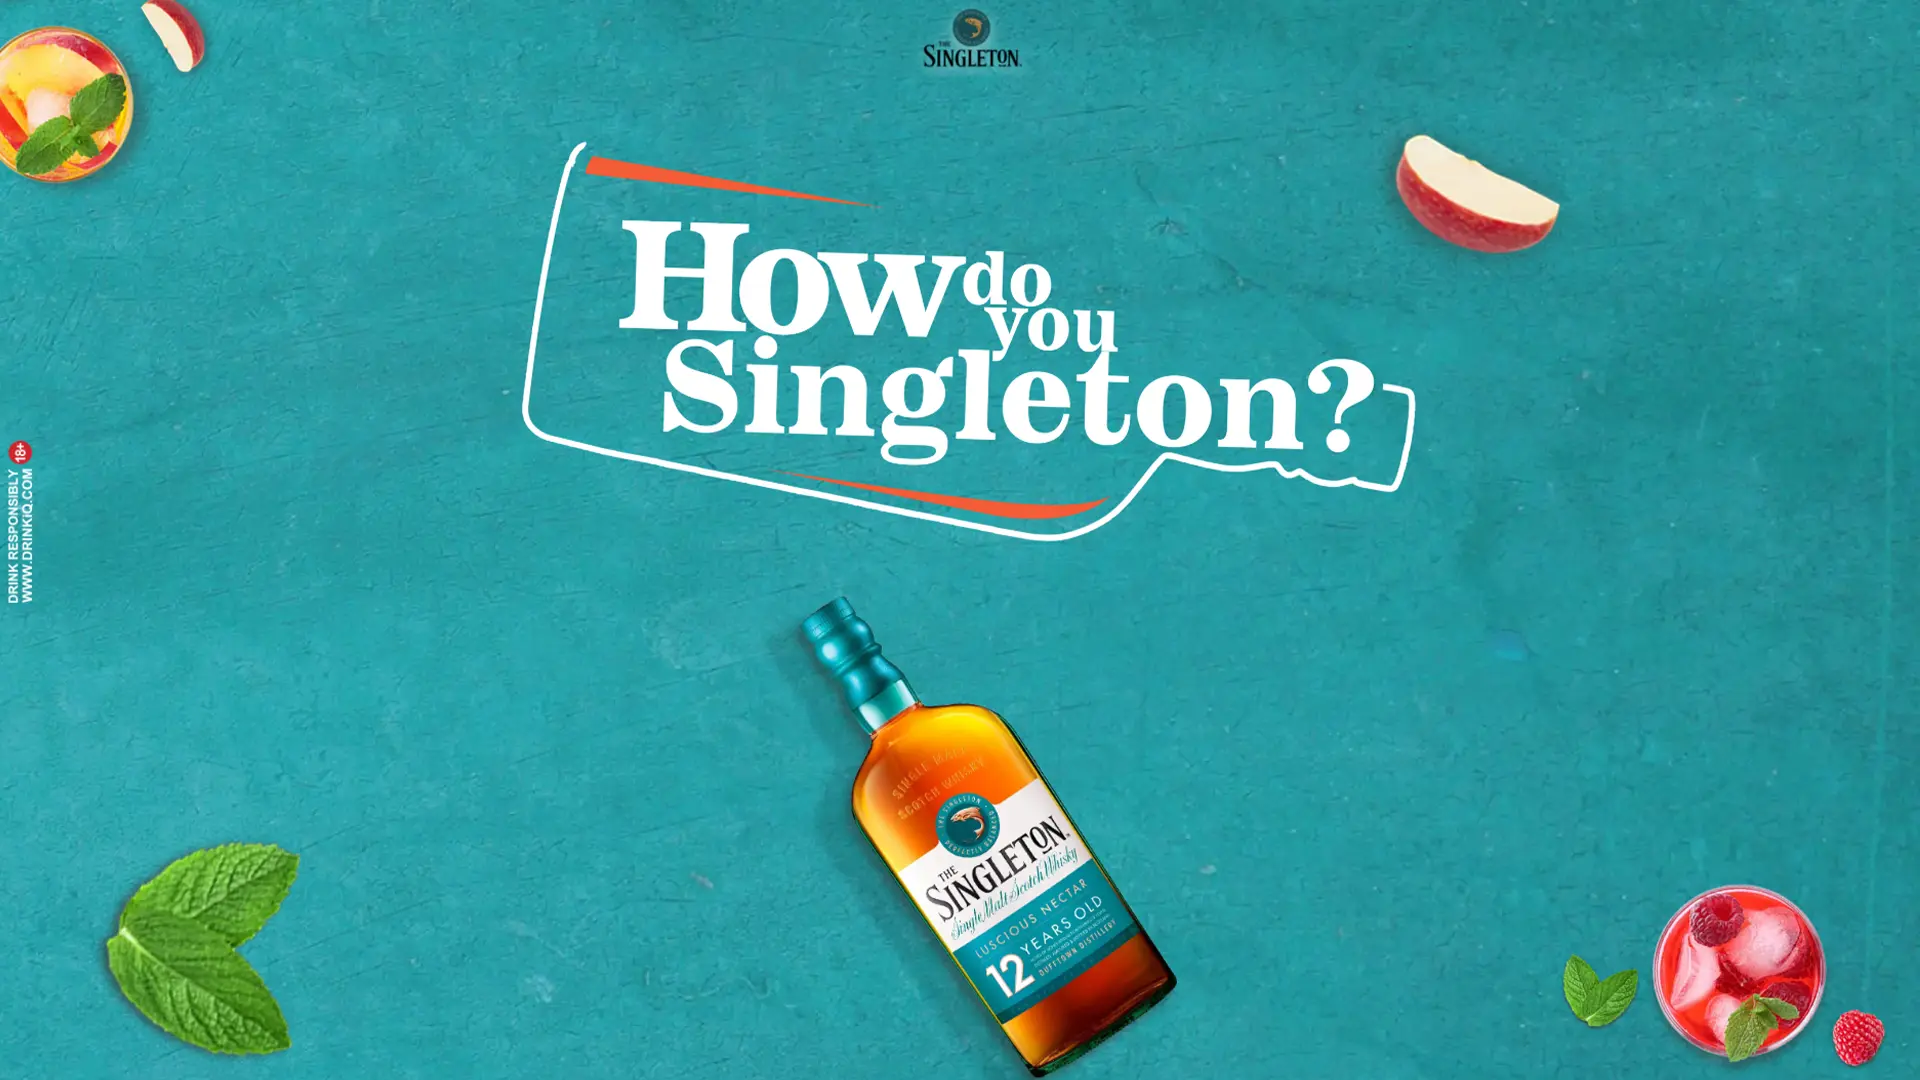
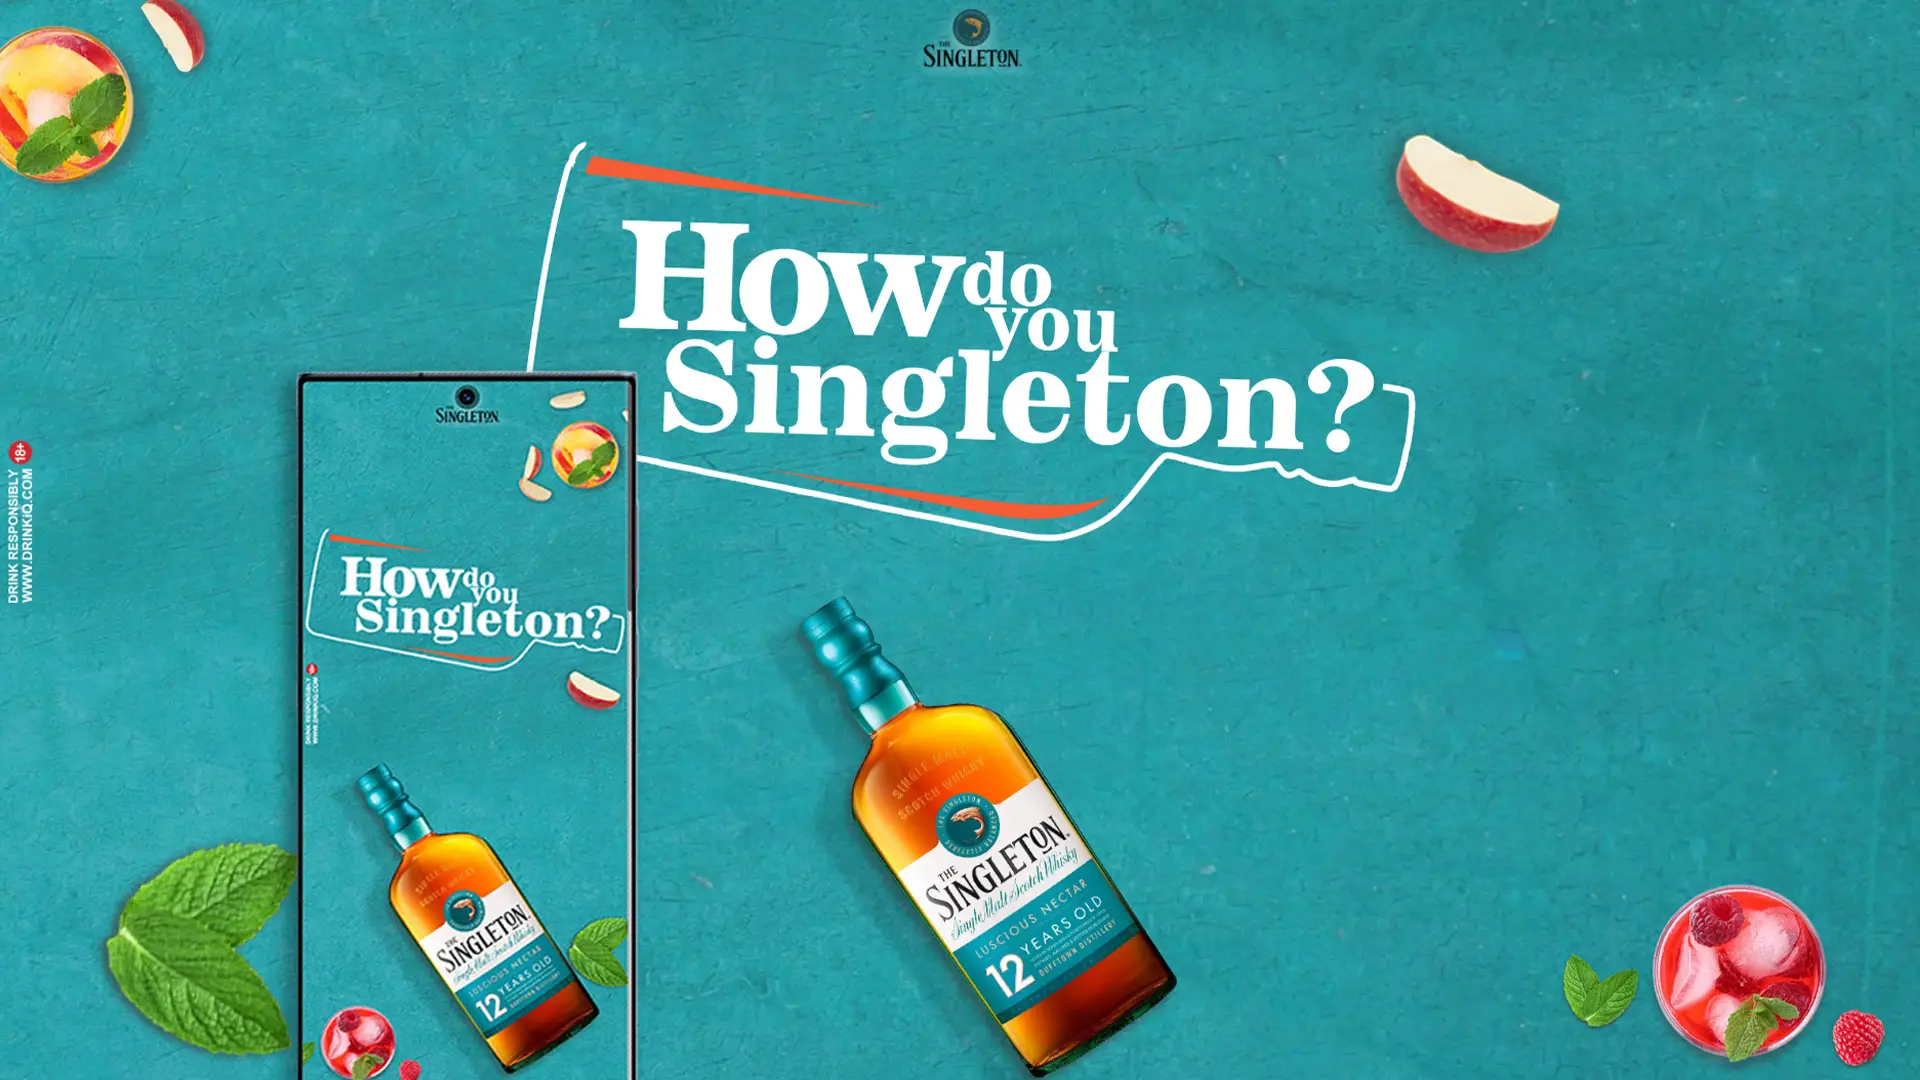
Modified Singleton Images

Changed region(s): [[0.125, 0.3361, 0.3438, 1.0]]

diff --git a/src/pages/Singleton.jsx b/src/pages/Singleton.jsx
@@ -130,8 +130,8 @@ export default function Singleton() {
 
 
                 <Image //SECTION IMAGE ------------------------------------------------------------------
-                    src="https://via.placeholder.com/800x400?text=Hero+Image"
-                    // src={projectImages.heroImage}
+                    // src="https://via.placeholder.com/800x400?text=Hero+Image"
+                    src={projectImages.heroImage}
                     sx={sectionImage}
                 />
 
@@ -242,8 +242,8 @@ export default function Singleton() {
 
 
                 <Image //SECTION IMAGE ------------------------------------------------------------------
-                    src="https://via.placeholder.com/800x400?text=Section+Hero"
-                    // src={projectImages.researchHero}
+                    // src="https://via.placeholder.com/800x400?text=Section+Hero"
+                    src={projectImages.hero2}
                     sx={sectionImage}
                 />
 
@@ -287,7 +287,7 @@ export default function Singleton() {
                 </Text>
 
 
-                <VStack    //IMAGE WITH CAPTION ------------------------------------------------------------------
+                {/* <VStack    //IMAGE WITH CAPTION ------------------------------------------------------------------
                     sx={subSectionImageContainer}
                 >
                     <Image
@@ -297,7 +297,7 @@ export default function Singleton() {
                     />
 
                     <Text>Some HDYS Campaign Infographics provided by the client</Text>
-                </VStack>
+                </VStack> */}
 
 
                 <VStack    //IMAGE WITH CAPTION ------------------------------------------------------------------
@@ -373,8 +373,8 @@ export default function Singleton() {
                     sx={subSectionImageContainer}
                 >
                     <Image
-                        src="https://via.placeholder.com/800x400?text=Mobile+Overview"
-                        // src={projectImages.journeyMap}
+                        // src="https://via.placeholder.com/800x400?text=Mobile+Overview"
+                        src={projectImages.mobileUI}
                         sx={subSectionImage}
                     />
 
@@ -406,8 +406,8 @@ export default function Singleton() {
                     sx={subSectionImageContainer}
                 >
                     <Image
-                        src="https://via.placeholder.com/800x400?text=Mobile+Overview"
-                        // src={projectImages.journeyMap}
+                        // src="https://via.placeholder.com/800x400?text=Mobile+Overview"
+                        src={projectImages.bookingImg}
                         sx={subSectionImage}
                     />
 
@@ -435,8 +435,8 @@ export default function Singleton() {
 
 
                 <Image //SECTION IMAGE ------------------------------------------------------------------
-                    src="https://via.placeholder.com/800x400?text=Section+Hero"
-                    // src={projectImages.researchHero}
+                    // src="https://via.placeholder.com/800x400?text=Section+Hero"
+                    src={projectImages.hero3}
                     sx={sectionImage}
                 />
 

diff --git a/src/components/EndpointVar.jsx b/src/components/EndpointVar.jsx
@@ -1,2 +1,2 @@
-// export const EndpointVar = "http://localhost:4000";
-export const EndpointVar = "https://project-v-backend.vercel.app";
+export const EndpointVar = "http://localhost:4000";
+// export const EndpointVar = "https://project-v-backend.vercel.app";
